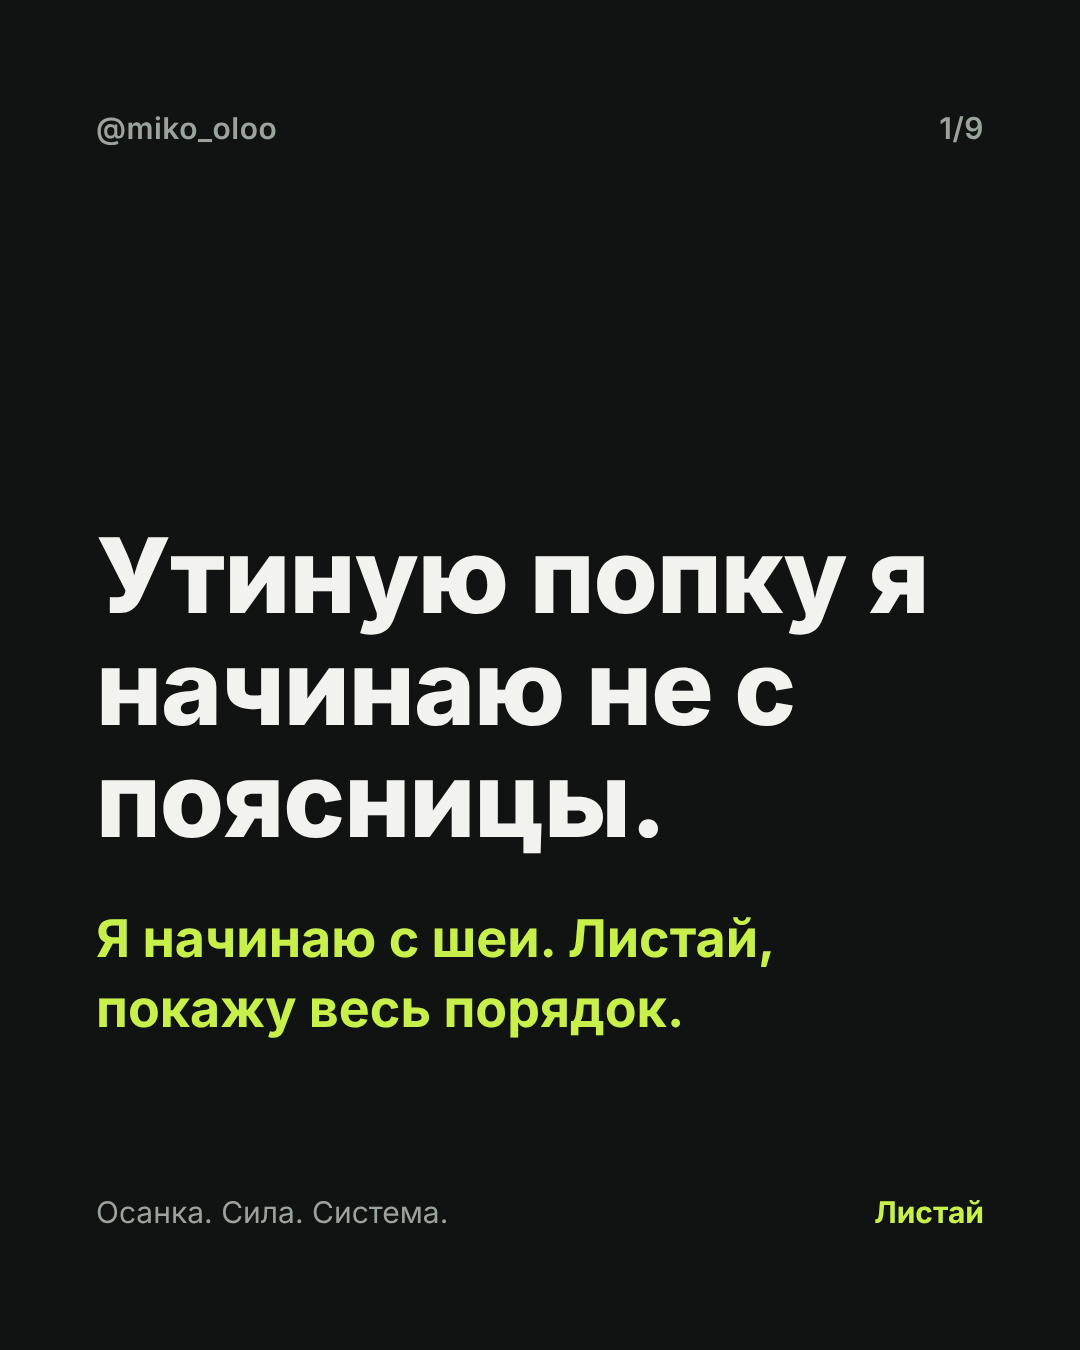
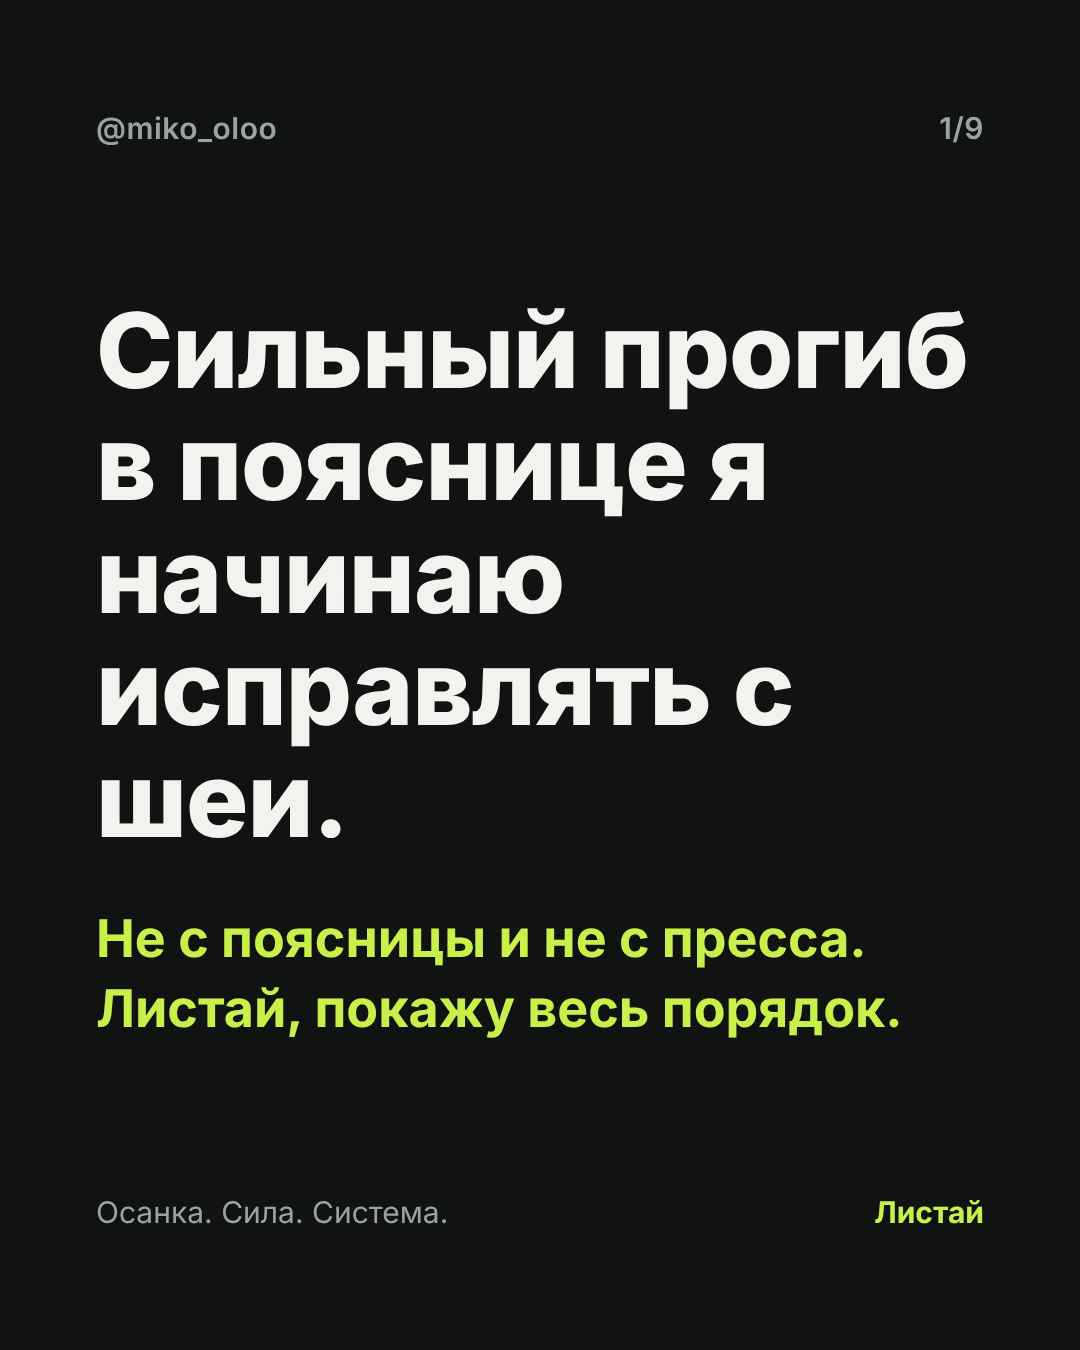
Хук карусели 27.10 без слова попка
Claude-Session: https://claude.ai/code/session_014b6iEBjPGyacsH4fnBbVwQ

Changed region(s): [[0.0917, 0.2178, 0.9167, 0.6533], [0.0917, 0.6533, 0.825, 0.7778]]

diff --git a/content/PLAN_2_WEEKS.md b/content/PLAN_2_WEEKS.md
@@ -24,7 +24,7 @@
 | № | Дата и время МСК | Формат | Тема | Слово |
 |---|---|---|---|---|
 | 1 | Пн 26.10, 10:00 | Рилс, 30 с, серия ч.1 | Осанка за ноутбуком, ч.1: тест у стены | ОСАНКА |
-| 2 | Вт 27.10, 18:00 | Карусель, 9 слайдов | Утиную попку я начинаю не с поясницы: протокол сверху вниз | ОСАНКА |
+| 2 | Вт 27.10, 18:00 | Карусель, 9 слайдов | Прогиб в пояснице я начинаю исправлять с шеи: протокол сверху вниз | ОСАНКА |
 | 3 | Ср 28.10, 18:00 | Рилс, 30 с | Вес ушёл, а в зеркале мягче: похудение и сушка | СУШКА |
 | 4 | Чт 29.10, 18:00 | Карусель, 9 слайдов | Основное упражнение плюс подсобка | ПРОГРАММА |
 | 5 | Пт 30.10, 18:00 | Рилс, 60-75 с, серия ч.2 | Осанка за ноутбуком, ч.2: 4 упражнения без зала | ОСАНКА |
@@ -100,7 +100,7 @@
 
 ---
 
-## 2. Карусель. Утиную попку я начинаю не с поясницы
+## 2. Карусель. Прогиб в пояснице я начинаю исправлять с шеи
 
 - **Дата и время:** вторник 27.10, 18:00 МСК
 - **Формат:** карусель, 9 слайдов. Обложка: твоё фото сбоку в зале, не стоковое
@@ -110,14 +110,14 @@
 - **Дальше:** в следующих двух неделях этот протокол продублировать рилс-серией "Таз вперёд, ч.1-4" (тест; шея и лопатки; поясница и бицепс бедра; ягодичные и стопа), одна часть в неделю
 
 **Хук (2 строки):**
-Утиную попку я начинаю не с поясницы.
-Я начинаю с шеи.
+Сильный прогиб в пояснице я начинаю исправлять с шеи.
+Не с поясницы и не с пресса.
 
 **Слайды:**
 
 | Слайд | Заголовок | Текст |
 |---|---|---|
-| 1 | Утиную попку я начинаю не с поясницы. | Я начинаю с шеи. Листай, покажу весь порядок. |
+| 1 | Сильный прогиб в пояснице я начинаю исправлять с шеи. | Не с поясницы и не с пресса. Листай, покажу весь порядок. |
 | 2 | Самое частое нарушение у моих клиентов | Передний наклон таза. Сильный прогиб в пояснице, живот вперёд. Часто идёт в паре с сутулостью и шеей вперёд. Поэтому я иду по телу сверху вниз, а не латаю одну поясницу. |
 | 3 | Порядок | Шея и лопатки с первого дня. Через 2 недели поясница и бицепс бедра. Параллельно ягодичные, стопа, растяжка и пресс. |
 | 4 | Шея и лопатки | Сгибание шеи с блином. Тяга горизонтального блока в наклоне широким прямым хватом, локти в стороны, 4 по 15. Сначала лопатки, потом руки. Плечи от ушей. |
@@ -145,7 +145,7 @@
 Сохрани, чтобы не потерять порядок. Самотест в боте: пиши ОСАНКА.
 ```
 
-**Хештеги:** #осанка #наклонтаза #утинаяпопка #гиперлордоз #коррекцияосанки #прогибвпояснице #фитнестренер
+**Хештеги:** #осанка #наклонтаза #переднийнаклонтаза #гиперлордоз #коррекцияосанки #прогибвпояснице #фитнестренер
 
 ---
 
@@ -292,7 +292,7 @@
 | № | День | Что показать | Текст | Куда ведёт |
 |---|---|---|---|---|
 | 1 | Пн 26.10, после рилса 1 | Скрин рилса 1, стикер "Опрос" | "Ладонь проходит под поясницу? Да / Нет". Следующий кадр: "Полный самотест в боте. Ч.2 в пятницу" | Стикер-ссылка на бота, слово ОСАНКА |
-| 2 | Вт 27.10 | Видео 10 с: ты делаешь тягу блока в наклоне широким хватом | "Первое, с чего я начинаю при утиной попке. Не поясница, а лопатки. Весь порядок в новой карусели" | Репост карусели 2 + стикер-ссылка на бота (ОСАНКА) |
+| 2 | Вт 27.10 | Видео 10 с: ты делаешь тягу блока в наклоне широким хватом | "Первое, с чего я начинаю при прогибе в пояснице. Не поясница, а лопатки. Весь порядок в новой карусели" | Репост карусели 2 + стикер-ссылка на бота (ОСАНКА) |
 | 3 | Ср 28.10 | Сантиметровая лента на твоей талии | "Вес или талия: на что смотришь ты?" стикер "Опрос". Следующий кадр: "Мой чек-лист сушки в боте" | Стикер-ссылка на бота, слово СУШКА |
 | 4 | Чт 29.10 | Кадр из зала: основное упражнение, рабочий подход | "Основное упражнение у меня всегда первое и никогда до отказа. Как собрать неделю, пришлёт бот" | Стикер-ссылка на бота, слово ПРОГРАММА |
 | 5 | Пт 30.10 | Ты у стены, дыхание у стены 5-7 с | "Ч.2 вышла: 4 упражнения, если весь день сидел. Самотест в боте" | Репост рилса 5 + стикер-ссылка на бота, слово ОСАНКА |

diff --git a/content/REFERENCE_ANALYSIS.md b/content/REFERENCE_ANALYSIS.md
@@ -165,7 +165,7 @@
 | Серия с номером | "Ч.3", "Ч.4", одна плашка | Растут подписки: за остальными частями идут в профиль | Серия "Таз вперёд, ч.1-4" по твоему протоколу сверху вниз: тест, шея и лопатки, поясница и бицепс бедра, ягодичные и стопа |
 | Личный результат | "После 3 операций на ПКС я могу..." | Доверие без дипломов: человек был в той же точке | **Нужно от тебя:** есть ли у тебя своя история с осанкой, травмой или сушкой, которую можно рассказать с цифрами? Без неё используем опыт работы: "у моих клиентов чаще всего..." |
 | Лестница сложности | "Сложность 1/10 ... 10/10", только музыка | Интрига до конца, каждый ищет свой уровень, ролик дешёвый в съёмке | Лодочка, отжимания, присед, планка: 10 уровней по 2 секунды. Подписи только "Уровень 4/10" |
-| Дело не там, где болит | "Колено болит не из-за колена" | Ломает ожидание, спорят в комментариях | "Утиную попку я начинаю не с поясницы, а с шеи" (твой протокол). Без медицинских обещаний |
+| Дело не там, где болит | "Колено болит не из-за колена" | Ломает ожидание, спорят в комментариях | "Прогиб в пояснице я начинаю исправлять с шеи" (твой протокол). Без медицинских обещаний |
 | Цифры и дозировки в кадре | "3 по 10", "держи 30 секунд" | Ролик сохраняют как инструкцию | Подходы и повторы в субтитрах каждого упражнения (из баз, без выдуманных цифр) |
 | Субтитры с акцентом | По 1-3 слова, ключевое слово цветом | Смотрят без звука, глаз ведут по экрану | Белые субтитры, ключевое слово одним фирменным цветом, без лишних эмодзи |
 | Одно узнаваемое место и образ | Одна крыша, одна футболка, одна резинка | Узнают в ленте до того, как прочли текст | Один угол зала как "студия осанки", одна и та же форма, одна плашка серий |
@@ -184,7 +184,7 @@
 
 **Передний наклон таза**
 5. Живот торчит при низком жире? Проверь таз, а не пресс.
-6. Утиную попку я начинаю не с поясницы. Я начинаю с шеи.
+6. Сильный прогиб в пояснице я начинаю исправлять с шеи. Не с поясницы и не с пресса.
 7. Таз вперёд, ч.1. Сначала тест, потом исправляем.
 8. Качаешь пресс, а прогиб на месте. Дело не в силе пресса.
 9. Это упражнение я убираю у клиентов с прогибом в первую неделю.
@@ -229,7 +229,7 @@
 
 | № | Сейчас | Предлагаю | Тип |
 |---|---|---|---|
-| 2 | Перестань начинать утиную попку с поясницы. Я начинаю с шеи. | Утиную попку я начинаю не с поясницы. Я начинаю с шеи. | Контринтуитивное, личный протокол |
+| 2 | Перестань начинать утиную попку с поясницы. Я начинаю с шеи. | Сильный прогиб в пояснице я начинаю исправлять с шеи. Не с поясницы и не с пресса. | Контринтуитивное, личный протокол |
 | 3 | Перестань радоваться минусу на весах. Вес ушёл, а в зеркале мягче? | Вес ушёл, а в зеркале мягче? Ты худел, а не сушился. | Узнай себя |
 | 7 | Перестань говорить, что грудь быстро восстанавливается. | Оставить. Это единственный сильный спор в плане | "Перестань делать X" |
 | 8 | Перестань качать пресс, чтобы убрать живот. | Живот торчит при низком жире? Проверь таз, а не пресс. | Симптом плюс неожиданная причина |

diff --git a/content/pelvic-tilt-ideas.md b/content/pelvic-tilt-ideas.md
@@ -1,12 +1,12 @@
 **6 единиц контента по наклону таза для @miko_oloo**
 
-Голос взят из слов Микаела: коротко, по делу, его термины ("утиная попка", "закачиваем", "включаем нейромышечную связь", "носок как струнка"). Все цифры и пометки доказательности взяты из базы "Осанка". Кейсов клиентов нет.
+Голос взят из слов Микаела: коротко, по делу, его термины ("закачиваем", "включаем нейромышечную связь", "носок как струнка"). Все цифры и пометки доказательности взяты из базы "Осанка". Кейсов клиентов нет.
 
 ## ПЕРЕДНИЙ НАКЛОН ТАЗА
 
 ### 1. Карусель, 8 слайдов. Протокол "сверху вниз"
 **Хук:**
-Утиная попка лечится не с поясницы.
+Прогиб в пояснице исправляют не с поясницы.
 Я начинаю с шеи.
 
 **Суть:**
@@ -104,6 +104,6 @@
 4. В контент не брал то, что ждёт ответа Микаела в "Нужно от тебя": кошку как растяжку пресса, "перекаты со штангой", упражнения на сгибатели грудного отдела, шею с блином стоя.
 5. Запасная тема для заднего наклона: проводки с палкой на грудные, 2 по 10 после жима, дискомфорт не выше 3 из 10.
 
-**Хэштеги, общий набор:** #осанка #наклонтаза #утинаяпопка #гиперлордоз #плоскаяспина #коррекцияосанки #растяжка #ягодицы #фитнестренер #тренерМосква
+**Хэштеги, общий набор:** #осанка #наклонтаза #переднийнаклонтаза #гиперлордоз #плоскаяспина #коррекцияосанки #растяжка #ягодицы #фитнестренер #тренерМосква
 
 Хэштег #тренерМосква ставить, только если Микаел работает в Москве. В базе этого нет.

diff --git a/content/VIDEO_SHOTLIST.md b/content/VIDEO_SHOTLIST.md
@@ -381,7 +381,7 @@ VK: ссылка
 | 7 | 012 | Отведение назад (кикбэк) в кроссовере | ЯГОДИЦЫ | Кикбэк: выше линии корпуса уже работает поясница |
 | 8 | 005 | Тяга к лицу | ОСАНКА | Упражнение, которое ставлю на каждую тренировку груди |
 | 9 | 027 | Махи гантелями в стороны | ТЕХНИКА | Махи в стороны: локти к потолку, не выше плеч |
-| 10 | 035 | Сгибание шеи с блином | ОСАНКА | Протокол на утиную попку начинаю с шеи. Вот первое упражнение |
+| 10 | 035 | Сгибание шеи с блином | ОСАНКА | Прогиб в пояснице начинаю исправлять с шеи. Вот первое упражнение |
 | 11 | 022 | Тяга в наклоне с горбом в пояснице | ОСАНКА | Тяга с горбом в пояснице: да, специально. Кому и зачем |
 | 12 | 078 | Лодочка | ОСАНКА | Лодочка: если поясница оторвалась, упражнение уже не работает |
 | 13 | 110 | Растяжка передней поверхности бедра | ОСАНКА | 2 минуты в конце каждой тренировки при прогибе в пояснице |
